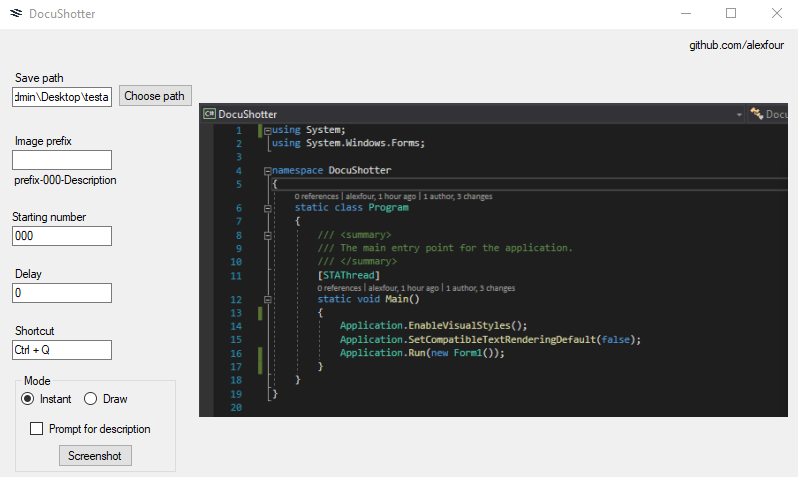
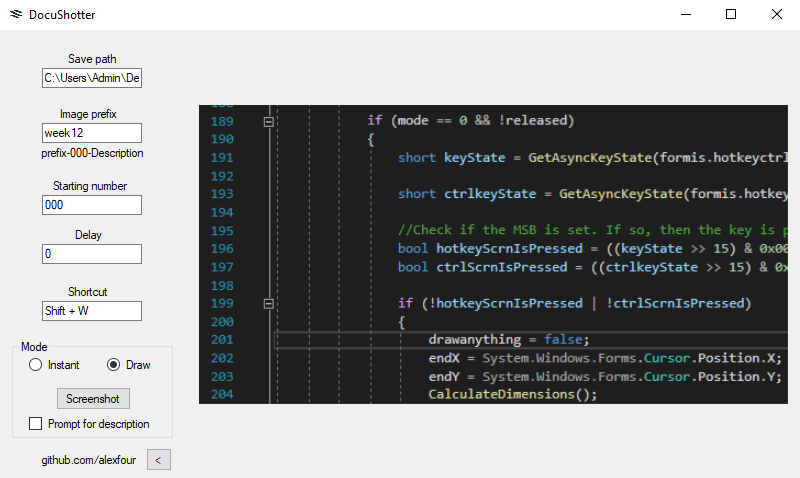
Added Esc detection while in screenshot mode to stop immeadiately. Updated preview image to show UI changes.

diff --git a/DrawForm.cs b/DrawForm.cs
@@ -24,6 +24,7 @@ namespace DocuShotter
         Timer hidetimer, shottimer;     //Timer that hides the form after it is no longer needed
 
         private bool drawanything;      //Indicates that graphics drawn on screen need to be hidden
+        private bool exitWithoutScrshot;
 
         private bool mousePressed,released = false;
 
@@ -62,6 +63,10 @@ namespace DocuShotter
             pictureBox1.SizeMode = PictureBoxSizeMode.Zoom;
 
             TopMost = true; // This will bring your window in front of all other windows including the taskbar
+
+
+            this.KeyPreview = true;
+            this.KeyUp += DrawForm_KeyDown;
         }
 
         /// <summary>
@@ -87,6 +92,26 @@ namespace DocuShotter
             }
             InitTimer();
             drawanything = true;
+            exitWithoutScrshot = false;
+        }
+
+        private void DrawForm_KeyDown(object sender, KeyEventArgs e)
+        {
+            Console.WriteLine(e.KeyValue);
+            if (e.KeyValue == 27)
+            {
+                mousePressed = false;
+                released = true;
+                pictureBox1.Update();
+                mainTimer.Stop();
+
+                formis.isPressed = false;
+
+                this.Hide();
+                released = false;
+                formis.isPressed = false;
+                formis.Opacity = 100; //Set the main form to be visible again
+            }
         }
 
         private void PictureBox1_MouseDown(object sender, MouseEventArgs e)
@@ -116,10 +141,13 @@ namespace DocuShotter
                 mainTimer.Stop();
                 pictureBox1.Update();
 
+                released = false;
+
                 hidetimer = new Timer();
                 hidetimer.Tick += new EventHandler(Hidetimer_Tick);
                 hidetimer.Interval = 15; // in milliseconds
                 hidetimer.Start();
+
             }
         }
 
@@ -157,25 +185,6 @@ namespace DocuShotter
         private void MainTimer_Tick(object sender, EventArgs e)
         {
             pictureBox1.Invalidate();
-
-            /*//Check for escape
-            short esckeyState = GetAsyncKeyState(0x1B);
-            bool esckeyIsPressed = ((esckeyState >> 15) & 0x0001) == 0x0001;
-
-            if (esckeyIsPressed)
-            {
-                mousePressed = false;
-                released = true;
-                pictureBox1.Update();
-                mainTimer.Stop();
-
-                formis.isPressed = false;
-                esckeyIsPressed = false;
-                hidetimer = new Timer();
-                hidetimer.Tick += new EventHandler(Hidetimer_Tick);
-                hidetimer.Interval = 15; // in milliseconds
-                hidetimer.Start();
-            }*/
 
             if (mode == 0 && !released)
             {
@@ -218,8 +227,8 @@ namespace DocuShotter
             hidetimer.Stop();
             hidetimer.Dispose();
             released = false;
-
-            formis.TakeScreenShot(shotWidth, shotHeight, initialX, initialY);
+            if (!exitWithoutScrshot)
+                formis.TakeScreenShot(shotWidth, shotHeight, initialX, initialY);
             formis.isPressed = false;
             formis.Opacity = 100; //Set the main form to be visible again
         }
